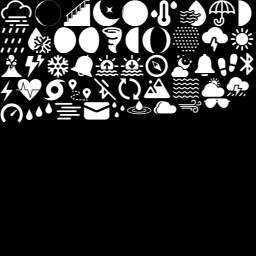
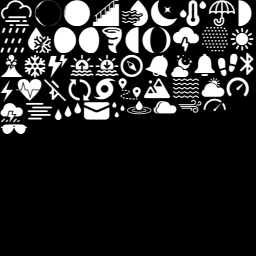
1.4.2
Fix calories and wind direction (numeric) icons

Changed region(s): [[0.0, 0.1875, 0.6562, 0.5312], [0.25, 0.0, 0.9062, 0.2188], [0.7812, 0.2812, 0.9688, 0.4375]]

diff --git a/README.md b/README.md
@@ -97,7 +97,12 @@ Values 1-3, when they appear, are applicable to the most imminent day with the c
 
 --------------------------------------------------
 ## Changelog
-### version 1.4.1:latest
+### version 1.4.2:latest
+
+1.4.2
+
+Fix calories and wind direction (numeric) icons
+
 1.4.1
  
 Use appropriate unit for distance (swapped)
